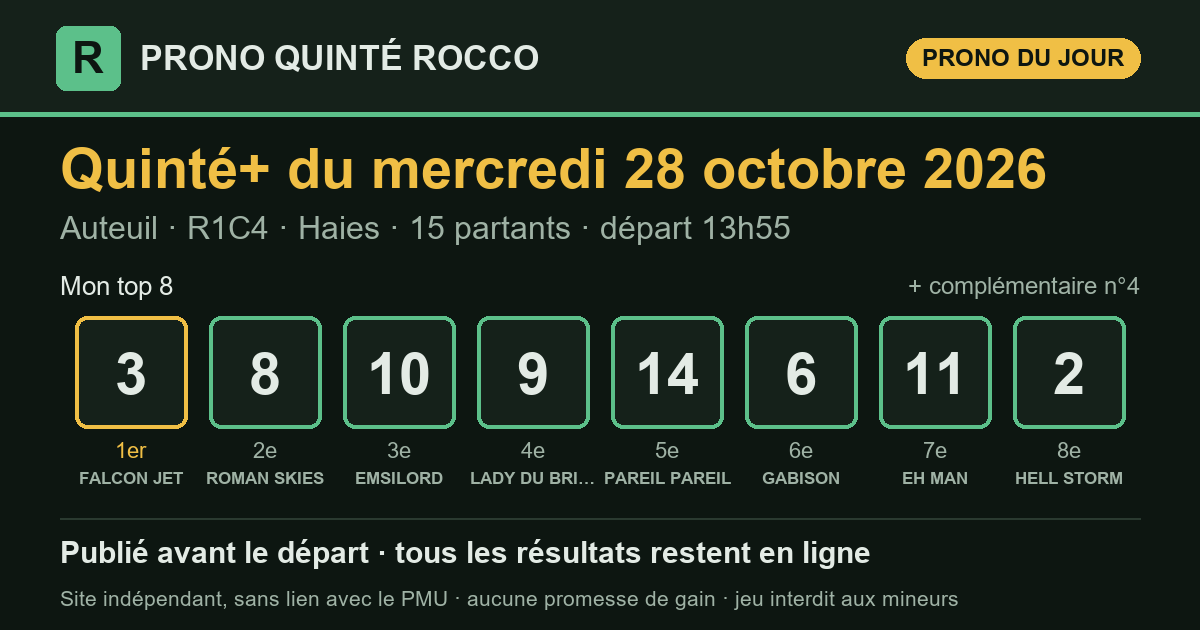
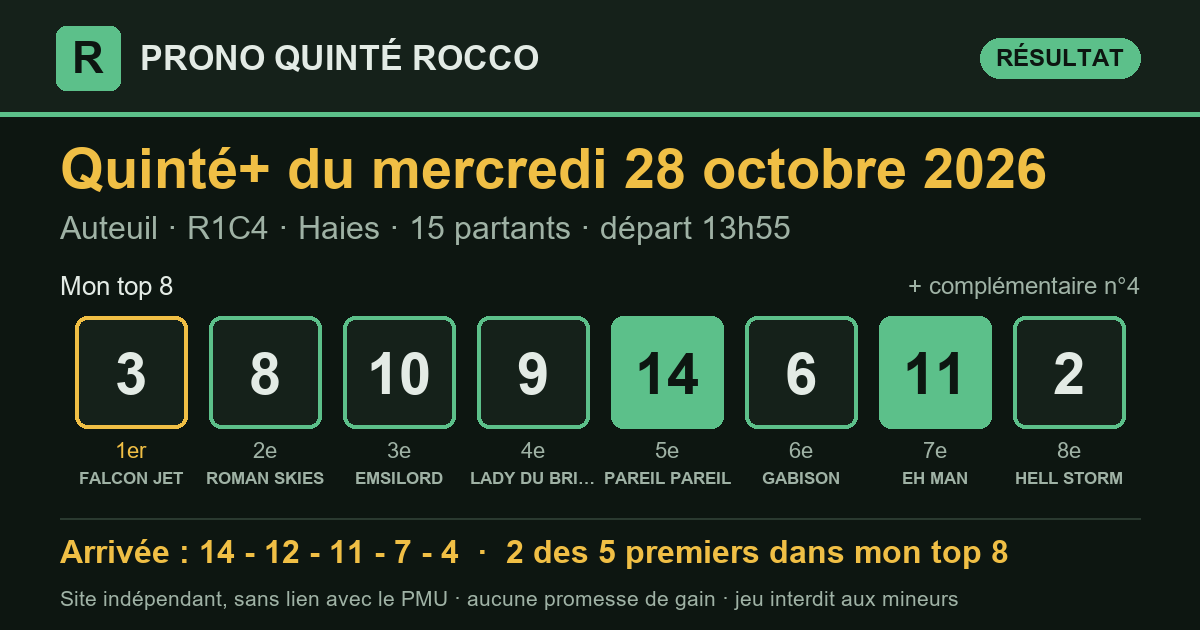
Prono Quinté+ 2026-10-28 Auteuil R1C4 — publié le 28/10/2026 14:11 (heure de Paris)

diff --git a/partants.html b/partants.html
@@ -3,7 +3,7 @@
 <head>
 <meta charset="utf-8">
 <meta name="viewport" content="width=device-width, initial-scale=1, viewport-fit=cover">
-<title>Partants du Quinté+ du mercredi 28 octobre 2026 — Prono Quinté Rocco</title>
+<title>Partants du Quinté+ du jeudi 29 octobre 2026 — Prono Quinté Rocco</title>
 <meta name="description" content="Les partants du prochain Quinté+ (programme officiel du PMU), avec le rang de chaque cheval dans mon prono et les liens vers les pronostics de la presse.">
 <link rel="canonical" href="https://prono-quinte-rocco.fr/partants.html">
 <link rel="stylesheet" href="style.css?v=88a1c822">
@@ -13,7 +13,7 @@
 <meta property="og:site_name" content="Prono Quinté Rocco">
 <meta property="og:locale" content="fr_FR">
 <meta property="og:type" content="website">
-<meta property="og:title" content="Partants du Quinté+ du mercredi 28 octobre 2026 — Prono Quinté Rocco">
+<meta property="og:title" content="Partants du Quinté+ du jeudi 29 octobre 2026 — Prono Quinté Rocco">
 <meta property="og:description" content="Les partants du prochain Quinté+ (programme officiel du PMU), avec le rang de chaque cheval dans mon prono et les liens vers les pronostics de la presse.">
 <meta property="og:url" content="https://prono-quinte-rocco.fr/partants.html">
 <meta name="twitter:card" content="summary">
@@ -29,95 +29,90 @@
   <p class="surtitre">Programme officiel du PMU</p>
   <h1>Les partants du prochain Quinté+</h1>
   <div class="fiche-course">
-    <p class="fiche-date">Mercredi 28 octobre 2026</p>
-    <div class="fiche-rc"><span class="pastille" title="Réunion 1">R1</span><span class="pastille" title="Course 4">C4</span><span class="fiche-nom">Prix Santo Pietro</span></div>
-    <p class="meta">Auteuil · Obstacle · 3 600 m · 15 partants</p>
+    <p class="fiche-date">Jeudi 29 octobre 2026</p>
+    <div class="fiche-rc"><span class="pastille" title="Réunion 1">R1</span><span class="pastille" title="Course 1">C1</span><span class="fiche-nom">Prix des Cevennes</span></div>
+    <p class="meta">Vincennes · Trot_attele · 2 850 m · 14 partants</p>
     <p class="fiche-depart">Départ <b>13:55</b> <span>heure de Paris</span></p>
   </div>
   <p class="surtitre">Les pronostics ailleurs sur le web</p>
-  <div class="liens"><a class="lien-ext" href="https://www.turfoo.fr/programmes-courses/261028/reunion1-auteuil/course4-prix-santo-pietro/pronostics-presse/" rel="noopener" target="_blank"><b>Les pronostics de la presse →</b><span>sur Turfoo (site extérieur)</span></a><a class="lien-ext" href="https://www.geny.com/programme/2026-10-28" rel="noopener" target="_blank"><b>Partants et pronostics →</b><span>programme du jour sur Geny (site extérieur)</span></a></div>
+  <div class="liens"><a class="lien-ext" href="https://www.turfoo.fr/programmes-courses/261029/reunion1-vincennes/course1-prix-des-cevennes/pronostics-presse/" rel="noopener" target="_blank"><b>Les pronostics de la presse →</b><span>sur Turfoo (site extérieur)</span></a><a class="lien-ext" href="https://www.geny.com/programme/2026-10-29" rel="noopener" target="_blank"><b>Partants et pronostics →</b><span>programme du jour sur Geny (site extérieur)</span></a></div>
   <div class="liste-boite"><table class="liste-partants">
     <thead><tr><th>N°</th><th>Cheval</th><th class="cote"><span class="long">Cote du matin</span><span class="court">Cote</span></th>
     <th class="ia"><span class="long">Mon prono</span><span class="court">Prono</span></th></tr></thead>
     <tbody><tr>
   <td><span class="tapis petit">1</span></td>
-  <td><span class="cheval">LOUMINOS</span><span class="sous">N.FERREIRA · R.SCHMIDLIN</span></td>
-  <td class="cote num">16,0</td>
+  <td><span class="cheval">KARAMBAR</span><span class="sous">A. ABRIVARD · L.CL. ABRIVARD</span></td>
+  <td class="cote num">—</td>
   <td class="ia">—</td>
 </tr><tr>
   <td><span class="tapis petit">2</span></td>
-  <td><span class="cheval">HELL STORM</span><span class="sous">T.BEAURAIN · Y.FOUIN (S)</span></td>
-  <td class="cote num">16,0</td>
-  <td class="ia"><span class="etat place">8<sup>e</sup></span></td>
+  <td><span class="cheval">HUBBLE DU VIVIER</span><span class="sous">Mme T. MATHIAS-MAISONNETTE · N. BAZIRE</span></td>
+  <td class="cote num">—</td>
+  <td class="ia">—</td>
 </tr><tr>
   <td><span class="tapis petit">3</span></td>
-  <td><span class="cheval">FALCON JET</span><span class="sous">Q.GAIGNARD · CHAILLE-CHAILLE &amp; PAMART</span></td>
-  <td class="cote num">6,0</td>
-  <td class="ia"><span class="etat place">1<sup>er</sup></span></td>
+  <td><span class="cheval">JINGLE DU PONT</span><span class="sous">N. BAZIRE · N. BAZIRE</span></td>
+  <td class="cote num">—</td>
+  <td class="ia">—</td>
 </tr><tr>
   <td><span class="tapis petit">4</span></td>
-  <td><span class="cheval">NORMANDY MAN</span><span class="sous">A.ZULIANI · F.NICOLLE</span></td>
-  <td class="cote num">17,0</td>
-  <td class="ia"><span class="etat place">compl.</span></td>
+  <td><span class="cheval">HARMONY DU RABUTIN</span><span class="sous">D. BONNE · F. GIARD</span></td>
+  <td class="cote num">—</td>
+  <td class="ia">—</td>
 </tr><tr>
   <td><span class="tapis petit">5</span></td>
-  <td><span class="cheval">TIGRESS DU BERLAIS</span><span class="sous">F.GILES · M.ROLLAND (S)</span></td>
-  <td class="cote num">16,0</td>
+  <td><span class="cheval">HULYSSE DIGEO</span><span class="sous">J.W. HALLAIS · J.W. HALLAIS</span></td>
+  <td class="cote num">—</td>
   <td class="ia">—</td>
 </tr><tr>
   <td><span class="tapis petit">6</span></td>
-  <td><span class="cheval">GABISON</span><span class="sous">L.PHILIPPERON · M.ROLLAND (S)</span></td>
-  <td class="cote num">11,0</td>
-  <td class="ia"><span class="etat place">6<sup>e</sup></span></td>
+  <td><span class="cheval">JUSTIN BOLD</span><span class="sous">P.Y. VERVA · J.R. DELLIAUX</span></td>
+  <td class="cote num">—</td>
+  <td class="ia">—</td>
 </tr><tr>
   <td><span class="tapis petit">7</span></td>
-  <td><span class="cheval">RAFFLES PRINCESS</span><span class="sous">BR.LE CLERC · Y.FOUIN (S)</span></td>
-  <td class="cote num">24,0</td>
+  <td><span class="cheval">HANNIBAL TUILERIE</span><span class="sous">G. LENAIN · CH.M. BRUNEAU</span></td>
+  <td class="cote num">—</td>
   <td class="ia">—</td>
 </tr><tr>
   <td><span class="tapis petit">8</span></td>
-  <td><span class="cheval">ROMAN SKIES</span><span class="sous">K.NABET · JUL .PHELIPPON</span></td>
-  <td class="cote num">5,6</td>
-  <td class="ia"><span class="etat place">2<sup>e</sup></span></td>
+  <td><span class="cheval">JABALPUR</span><span class="sous">E. RAFFIN · A. CHAVATTE</span></td>
+  <td class="cote num">—</td>
+  <td class="ia">—</td>
 </tr><tr>
   <td><span class="tapis petit">9</span></td>
-  <td><span class="cheval">LADY DU BRIZAIS</span><span class="sous">G.MASURE · CHAILLE-CHAILLE &amp; PAMART</span></td>
-  <td class="cote num">12,0</td>
-  <td class="ia"><span class="etat place">4<sup>e</sup></span></td>
+  <td><span class="cheval">KAPAULA DE L&#x27;EPINE</span><span class="sous">J.G. VAN EECKHAUTE · J.G. VAN EECKHAUTE</span></td>
+  <td class="cote num">—</td>
+  <td class="ia">—</td>
 </tr><tr>
   <td><span class="tapis petit">10</span></td>
-  <td><span class="cheval">EMSILORD</span><span class="sous">G.MEUNIER · H.MERIENNE (S)</span></td>
-  <td class="cote num">11,0</td>
-  <td class="ia"><span class="etat place">3<sup>e</sup></span></td>
+  <td><span class="cheval">HARLEY GEMA</span><span class="sous">B. ROCHARD · M. SASSIER</span></td>
+  <td class="cote num">—</td>
+  <td class="ia">—</td>
 </tr><tr>
   <td><span class="tapis petit">11</span></td>
-  <td><span class="cheval">EH MAN</span><span class="sous">L.ZULIANI · N. GEORGE &amp; A. ZETTERHOLM</span></td>
-  <td class="cote num">15,0</td>
-  <td class="ia"><span class="etat place">7<sup>e</sup></span></td>
+  <td><span class="cheval">HORCHESTRO</span><span class="sous">D. BEKAERT · M. BONNEFOY</span></td>
+  <td class="cote num">—</td>
+  <td class="ia">—</td>
 </tr><tr>
   <td><span class="tapis petit">12</span></td>
-  <td><span class="cheval">ALHUNTER</span><span class="sous">B.LE CLERC · MME G.MENATO</span></td>
-  <td class="cote num">16,0</td>
+  <td><span class="cheval">KRACK TIME ATOUT</span><span class="sous">F. NIVARD · S. GUARATO</span></td>
+  <td class="cote num">—</td>
   <td class="ia">—</td>
 </tr><tr>
   <td><span class="tapis petit">13</span></td>
-  <td><span class="cheval">METRONOME D&#x27;AINAY</span><span class="sous">THO .JOURNIAC · GAB.LEENDERS (S)</span></td>
-  <td class="cote num">36,0</td>
+  <td><span class="cheval">IGUSKI SAUTONNE</span><span class="sous">J.ET. ABRIVARD · M. ABRIVARD</span></td>
+  <td class="cote num">—</td>
   <td class="ia">—</td>
 </tr><tr>
   <td><span class="tapis petit">14</span></td>
-  <td><span class="cheval">PAREIL PAREIL</span><span class="sous">L.BRECHET · Y.FOUIN (S)</span></td>
-  <td class="cote num">10,0</td>
-  <td class="ia"><span class="etat place">5<sup>e</sup></span></td>
-</tr><tr>
-  <td><span class="tapis petit">15</span></td>
-  <td><span class="cheval">MATIGNON LEON</span><span class="sous">C.SMEULDERS · C.FEY (S)</span></td>
-  <td class="cote num">24,0</td>
+  <td><span class="cheval">INMAROSA</span><span class="sous">LEO ABRIVARD · L.CL. ABRIVARD</span></td>
+  <td class="cote num">—</td>
   <td class="ia">—</td>
 </tr></tbody>
   </table></div>
-  <p class="meta">La colonne « Mon prono » donne le rang de chaque cheval dans mon top 8, tel qu&#x27;il est publié sur ce site. Sous chaque cheval : jockey · entraîneur. Partants et cotes : programme
-  officiel du PMU, lu le 28/10 à 10:10 (heure de Paris). NP = non-partant.</p>
+  <p class="meta">Mon prono de cette course sera publié le matin de la course, avant le départ. Sous chaque cheval : driver · entraîneur. Partants et cotes : programme
+  officiel du PMU, lu le 28/10 à 14:11 (heure de Paris). NP = non-partant.</p>
 </section>
 </main>
 <footer class="pied">

diff --git a/index.html b/index.html
@@ -16,7 +16,7 @@
 <meta property="og:title" content="Pronostic Quinté+ du mercredi 28 octobre 2026 — Prono Quinté Rocco">
 <meta property="og:description" content="Pronostic Quinté+ du jour : mon top 8, publié avant le départ, puis tous les résultats et le rendement réel.">
 <meta property="og:url" content="https://prono-quinte-rocco.fr/">
-<meta property="og:image" content="https://prono-quinte-rocco.fr/partage/2026-10-28.png?v=ba277bd1">
+<meta property="og:image" content="https://prono-quinte-rocco.fr/partage/2026-10-28.png?v=7007ced1">
 <meta property="og:image:type" content="image/png">
 <meta property="og:image:width" content="1200">
 <meta property="og:image:height" content="630">
@@ -31,7 +31,7 @@
 </header>
 <main>
 <section class="une" aria-labelledby="t-jour">
-  <p class="surtitre">Quinté+ du jour</p>
+  <p class="surtitre">Dernier Quinté+</p>
   <h1 id="t-jour">Le prono du Quinté+, résultats compris</h1>
   <p class="chapo">Chaque matin, j'étudie les partants du Quinté+ avec le logiciel que
   j'ai conçu, selon ma propre méthode, qu'une intelligence artificielle m'aide à
@@ -42,10 +42,13 @@
   <p class="meta">Auteuil · <strong>R1C4</strong> · Haies · 15 partants · lisibilité <span class="note" aria-label="note 2 sur 5"><i class="on"></i><i class="on"></i><i class=""></i><i class=""></i><i class=""></i></span> 2/5</p>
   <div class="zone-prono">
     <h3 class="zone-titre">Mon top 8</h3>
-    <ol class="partants" aria-label="Mon top 8"><li><span class="rang">1<sup>er</sup></span><span class="tapis ">3</span><span class="nom">FALCON JET</span></li><li><span class="rang">2<sup>e</sup></span><span class="tapis ">8</span><span class="nom">ROMAN SKIES</span></li><li><span class="rang">3<sup>e</sup></span><span class="tapis ">10</span><span class="nom">EMSILORD</span></li><li><span class="rang">4<sup>e</sup></span><span class="tapis ">9</span><span class="nom">LADY DU BRIZAIS</span></li><li><span class="rang">5<sup>e</sup></span><span class="tapis ">14</span><span class="nom">PAREIL PAREIL</span></li><li><span class="rang">6<sup>e</sup></span><span class="tapis ">6</span><span class="nom">GABISON</span></li><li><span class="rang">7<sup>e</sup></span><span class="tapis ">11</span><span class="nom">EH MAN</span></li><li><span class="rang">8<sup>e</sup></span><span class="tapis ">2</span><span class="nom">HELL STORM</span></li><li><span class="rang">compl.</span><span class="tapis creux">4</span><span class="nom">NORMANDY MAN</span></li></ol>
+    <ol class="partants" aria-label="Mon top 8"><li><span class="rang">1<sup>er</sup></span><span class="tapis ">3</span><span class="nom">FALCON JET</span></li><li><span class="rang">2<sup>e</sup></span><span class="tapis ">8</span><span class="nom">ROMAN SKIES</span></li><li><span class="rang">3<sup>e</sup></span><span class="tapis ">10</span><span class="nom">EMSILORD</span></li><li><span class="rang">4<sup>e</sup></span><span class="tapis ">9</span><span class="nom">LADY DU BRIZAIS</span></li><li><span class="rang">5<sup>e</sup></span><span class="tapis plein">14</span><span class="nom">PAREIL PAREIL</span></li><li><span class="rang">6<sup>e</sup></span><span class="tapis ">6</span><span class="nom">GABISON</span></li><li><span class="rang">7<sup>e</sup></span><span class="tapis plein">11</span><span class="nom">EH MAN</span></li><li><span class="rang">8<sup>e</sup></span><span class="tapis ">2</span><span class="nom">HELL STORM</span></li><li><span class="rang">compl.</span><span class="tapis creux plein">4</span><span class="nom">NORMANDY MAN</span></li></ol>
     <div class="pied-carte"><span>Analysé le 28/10 à 09:42 · en ligne le 28/10 à 10:10 · départ à 13:55 (heure de Paris)</span><span><a href="quinte/2026-10-28.html">Détail de la course</a></span></div>
   </div>
-  <div class="zone-arrivee attente"><p>L'arrivée officielle s'affichera ici après la course.</p></div>
+  <div class="zone-arrivee">
+    <div class="zone-tete"><h3 class="zone-titre">Arrivée officielle</h3><span class="etat place">2 des 5 premiers dans mon top 8</span><span class="etat non">mon 1er (n°3) : non placé</span></div>
+    <ol class="partants" aria-label="Arrivée officielle"><li><span class="rang">1<sup>er</sup></span><span class="tapis plein">14</span><span class="nom">PAREIL PAREIL</span></li><li><span class="rang">2<sup>e</sup></span><span class="tapis hors">12</span><span class="nom">ALHUNTER</span></li><li><span class="rang">3<sup>e</sup></span><span class="tapis plein">11</span><span class="nom">EH MAN</span></li><li><span class="rang">4<sup>e</sup></span><span class="tapis hors">7</span><span class="nom">RAFFLES PRINCESS</span></li><li><span class="rang">5<sup>e</sup></span><span class="tapis creux plein">4</span><span class="nom">NORMANDY MAN</span></li></ol>
+  </div>
 </article>
 </section>
 <section class="suivre" aria-label="Suivre et soutenir">
@@ -75,7 +78,7 @@
 </section>
 <section class="bilan" aria-labelledby="t-bilan">
   <h2 id="t-bilan">Mon bilan depuis le 8 septembre 2026</h2>
-  <div class="tableau chiffres"><div class="case"><span class="gros ">73 %</span><span class="lib">des arrivants trouvés dans mon top 8</span><span class="ref">un top 8 tiré au hasard : 51 %</span></div><div class="case"><span class="gros ">86 %</span><span class="lib">des gagnants présents dans mon top 8</span><span class="ref"></span></div><div class="case"><span class="gros ">51 %</span><span class="lib">mon 1er placé</span><span class="ref">sur 49 Quintés</span></div><div class="case"><span class="gros perte">0,95 €</span><span class="lib">rendus pour 1 € joué placé sur mon 1er</span><span class="ref">rapports officiels PMU</span></div><div class="case"><span class="gros perte">0,48 €</span><span class="lib">rendus pour 1 € joué en Quinté+ combiné sur mon top 8</span><span class="ref">56 combinaisons, rapports PMU.fr, sur 49 Quintés</span></div></div>
+  <div class="tableau chiffres"><div class="case"><span class="gros ">72 %</span><span class="lib">des arrivants trouvés dans mon top 8</span><span class="ref">un top 8 tiré au hasard : 51 %</span></div><div class="case"><span class="gros ">86 %</span><span class="lib">des gagnants présents dans mon top 8</span><span class="ref"></span></div><div class="case"><span class="gros ">51 %</span><span class="lib">mon 1er placé</span><span class="ref">sur 49 Quintés</span></div><div class="case"><span class="gros perte">0,95 €</span><span class="lib">rendus pour 1 € joué placé sur mon 1er</span><span class="ref">rapports officiels PMU</span></div><div class="case"><span class="gros perte">0,48 €</span><span class="lib">rendus pour 1 € joué en Quinté+ combiné sur mon top 8</span><span class="ref">56 combinaisons, rapports PMU.fr, sur 49 Quintés</span></div></div>
   <p class="avertissement">Moins de 1 € rendu pour 1 € joué : suivre mon prono à la lettre fait <strong>perdre de l'argent</strong> sur cette période. Il sert à analyser une course, pas à promettre un gain.</p>
 </section>
 </main>

diff --git a/quinte/2026-10-28.html b/quinte/2026-10-28.html
@@ -16,7 +16,7 @@
 <meta property="og:title" content="Pronostic Quinté+ du mercredi 28 octobre 2026 à Auteuil — Prono Quinté Rocco">
 <meta property="og:description" content="Prono Quinté+ du mercredi 28 octobre 2026 (Auteuil) : mon top 8, l&#x27;arrivée officielle et les rapports PMU.fr.">
 <meta property="og:url" content="https://prono-quinte-rocco.fr/quinte/2026-10-28.html">
-<meta property="og:image" content="https://prono-quinte-rocco.fr/partage/2026-10-28.png?v=ba277bd1">
+<meta property="og:image" content="https://prono-quinte-rocco.fr/partage/2026-10-28.png?v=7007ced1">
 <meta property="og:image:type" content="image/png">
 <meta property="og:image:width" content="1200">
 <meta property="og:image:height" content="630">
@@ -35,15 +35,25 @@
   <h1>Pronostic Quinté+ du mercredi 28 octobre 2026</h1>
   <p class="chapo">Auteuil · R1C4 · Haies · 15 partants</p>
   <article class="carte-course">
-  <div class="tete"><h2>Mon prono</h2></div>
+  <div class="tete"><h2>Mon prono et l&#x27;arrivée officielle</h2></div>
   <p class="meta">Auteuil · <strong>R1C4</strong> · Haies · 15 partants · lisibilité <span class="note" aria-label="note 2 sur 5"><i class="on"></i><i class="on"></i><i class=""></i><i class=""></i><i class=""></i></span> 2/5</p>
   <div class="zone-prono">
     <h3 class="zone-titre">Mon top 8</h3>
-    <ol class="partants" aria-label="Mon top 8"><li><span class="rang">1<sup>er</sup></span><span class="tapis ">3</span><span class="nom">FALCON JET</span></li><li><span class="rang">2<sup>e</sup></span><span class="tapis ">8</span><span class="nom">ROMAN SKIES</span></li><li><span class="rang">3<sup>e</sup></span><span class="tapis ">10</span><span class="nom">EMSILORD</span></li><li><span class="rang">4<sup>e</sup></span><span class="tapis ">9</span><span class="nom">LADY DU BRIZAIS</span></li><li><span class="rang">5<sup>e</sup></span><span class="tapis ">14</span><span class="nom">PAREIL PAREIL</span></li><li><span class="rang">6<sup>e</sup></span><span class="tapis ">6</span><span class="nom">GABISON</span></li><li><span class="rang">7<sup>e</sup></span><span class="tapis ">11</span><span class="nom">EH MAN</span></li><li><span class="rang">8<sup>e</sup></span><span class="tapis ">2</span><span class="nom">HELL STORM</span></li><li><span class="rang">compl.</span><span class="tapis creux">4</span><span class="nom">NORMANDY MAN</span></li></ol>
+    <ol class="partants" aria-label="Mon top 8"><li><span class="rang">1<sup>er</sup></span><span class="tapis ">3</span><span class="nom">FALCON JET</span></li><li><span class="rang">2<sup>e</sup></span><span class="tapis ">8</span><span class="nom">ROMAN SKIES</span></li><li><span class="rang">3<sup>e</sup></span><span class="tapis ">10</span><span class="nom">EMSILORD</span></li><li><span class="rang">4<sup>e</sup></span><span class="tapis ">9</span><span class="nom">LADY DU BRIZAIS</span></li><li><span class="rang">5<sup>e</sup></span><span class="tapis plein">14</span><span class="nom">PAREIL PAREIL</span></li><li><span class="rang">6<sup>e</sup></span><span class="tapis ">6</span><span class="nom">GABISON</span></li><li><span class="rang">7<sup>e</sup></span><span class="tapis plein">11</span><span class="nom">EH MAN</span></li><li><span class="rang">8<sup>e</sup></span><span class="tapis ">2</span><span class="nom">HELL STORM</span></li><li><span class="rang">compl.</span><span class="tapis creux plein">4</span><span class="nom">NORMANDY MAN</span></li></ol>
     <div class="pied-carte"><span>Analysé le 28/10 à 09:42 · en ligne le 28/10 à 10:10 · départ à 13:55 (heure de Paris)</span><span></span></div>
   </div>
-  <div class="zone-arrivee attente"><p>L'arrivée officielle s'affichera ici après la course.</p></div>
+  <div class="zone-arrivee">
+    <div class="zone-tete"><h3 class="zone-titre">Arrivée officielle</h3><span class="etat place">2 des 5 premiers dans mon top 8</span><span class="etat non">mon 1er (n°3) : non placé</span></div>
+    <ol class="partants" aria-label="Arrivée officielle"><li><span class="rang">1<sup>er</sup></span><span class="tapis plein">14</span><span class="nom">PAREIL PAREIL</span></li><li><span class="rang">2<sup>e</sup></span><span class="tapis hors">12</span><span class="nom">ALHUNTER</span></li><li><span class="rang">3<sup>e</sup></span><span class="tapis plein">11</span><span class="nom">EH MAN</span></li><li><span class="rang">4<sup>e</sup></span><span class="tapis hors">7</span><span class="nom">RAFFLES PRINCESS</span></li><li><span class="rang">5<sup>e</sup></span><span class="tapis creux plein">4</span><span class="nom">NORMANDY MAN</span></li></ol>
+  </div>
 </article>
+<section class="carte-course rapports" aria-labelledby="t-rap">
+  <div class="tete"><h2 id="t-rap">Les rapports</h2></div>
+  <div class="deux">
+    <div><h3>Ce qu'aurait rendu mon prono</h3><dl class="kv"><dt>1 € placé sur mon 1er (n°3)</dt><dd>rapport manquant</dd><dt>1 € gagnant sur mon 1er</dt><dd>rapport manquant</dd></dl></div>
+    <div><h3>Rapports officiels</h3><dl class="kv"><dt>rapports indisponibles</dt><dd></dd></dl></div>
+  </div>
+</section>
 </section>
 </main>
 <footer class="pied">

diff --git a/resultats.html b/resultats.html
@@ -40,11 +40,11 @@
     <th colspan="4" class="res g-res">Le résultat officiel</th></tr>
     <tr><th>Date</th><th>Course</th><th>Top 8</th><th class="res c-arr">Arrivée</th>
     <th class="res">Trouvés</th><th class="res">Mon 1er</th><th class="res mont">Quinté+ top 8<br>(mise 112 €)</th></tr></thead>
-    <tbody><tr class="attente">
+    <tbody><tr>
   <td class="c-date"><a href="quinte/2026-10-28.html">28/10</a></td>
   <td class="c-course">Auteuil<br><span class="meta">R1C4 · Haies</span></td>
-  <td class="c-top8" data-label="Mon top 8"><div class="rangee"><span class="tapis petit">3</span><span class="tapis petit">8</span><span class="tapis petit">10</span><span class="tapis petit">9</span><span class="tapis petit">14</span><span class="tapis petit">6</span><span class="tapis petit">11</span><span class="tapis petit">2</span></div></td>
-  <td class="res c-arr" data-label="Arrivée"><span class="etat attente">en attente</span></td><td class="res num c-trouves" data-label="Trouvés">—</td><td class="res c-premier" data-label="Mon 1er"><span class="etat attente">—</span></td><td class="res mont c-mont" data-label="Quinté+ top 8 (mise 112 €)">—</td>
+  <td class="c-top8" data-label="Mon top 8"><div class="rangee"><span class="tapis petit">3</span><span class="tapis petit">8</span><span class="tapis petit">10</span><span class="tapis petit">9</span><span class="tapis plein petit">14</span><span class="tapis petit">6</span><span class="tapis plein petit">11</span><span class="tapis petit">2</span></div></td>
+  <td class="res c-arr" data-label="Arrivée"><div class="rangee"><span class="tapis plein petit" title="1er">14</span><span class="tapis hors petit" title="2e">12</span><span class="tapis plein petit" title="3e">11</span><span class="tapis hors petit" title="4e">7</span><span class="tapis hors petit" title="5e">4</span></div></td><td class="res num c-trouves" data-label="Trouvés">2/5</td><td class="res c-premier" data-label="Mon 1er"><span class="etat non">non placé</span></td><td class="res mont c-mont" data-label="Quinté+ top 8 (mise 112 €)">—</td>
 </tr><tr>
   <td class="c-date"><a href="quinte/2026-10-27.html">27/10</a></td>
   <td class="c-course">Deauville<br><span class="meta">R1C1 · Plat</span></td>
@@ -295,7 +295,7 @@
 </section>
 <section class="bilan" aria-labelledby="t-bilan">
   <h2 id="t-bilan">Mon bilan depuis le 8 septembre 2026</h2>
-  <div class="tableau chiffres"><div class="case"><span class="gros ">73 %</span><span class="lib">des arrivants trouvés dans mon top 8</span><span class="ref">un top 8 tiré au hasard : 51 %</span></div><div class="case"><span class="gros ">86 %</span><span class="lib">des gagnants présents dans mon top 8</span><span class="ref"></span></div><div class="case"><span class="gros ">51 %</span><span class="lib">mon 1er placé</span><span class="ref">sur 49 Quintés</span></div><div class="case"><span class="gros perte">0,95 €</span><span class="lib">rendus pour 1 € joué placé sur mon 1er</span><span class="ref">rapports officiels PMU</span></div><div class="case"><span class="gros perte">0,48 €</span><span class="lib">rendus pour 1 € joué en Quinté+ combiné sur mon top 8</span><span class="ref">56 combinaisons, rapports PMU.fr, sur 49 Quintés</span></div></div>
+  <div class="tableau chiffres"><div class="case"><span class="gros ">72 %</span><span class="lib">des arrivants trouvés dans mon top 8</span><span class="ref">un top 8 tiré au hasard : 51 %</span></div><div class="case"><span class="gros ">86 %</span><span class="lib">des gagnants présents dans mon top 8</span><span class="ref"></span></div><div class="case"><span class="gros ">51 %</span><span class="lib">mon 1er placé</span><span class="ref">sur 49 Quintés</span></div><div class="case"><span class="gros perte">0,95 €</span><span class="lib">rendus pour 1 € joué placé sur mon 1er</span><span class="ref">rapports officiels PMU</span></div><div class="case"><span class="gros perte">0,48 €</span><span class="lib">rendus pour 1 € joué en Quinté+ combiné sur mon top 8</span><span class="ref">56 combinaisons, rapports PMU.fr, sur 49 Quintés</span></div></div>
   <p class="avertissement">Moins de 1 € rendu pour 1 € joué : suivre mon prono à la lettre fait <strong>perdre de l'argent</strong> sur cette période. Il sert à analyser une course, pas à promettre un gain.</p>
 </section>
 </main>
